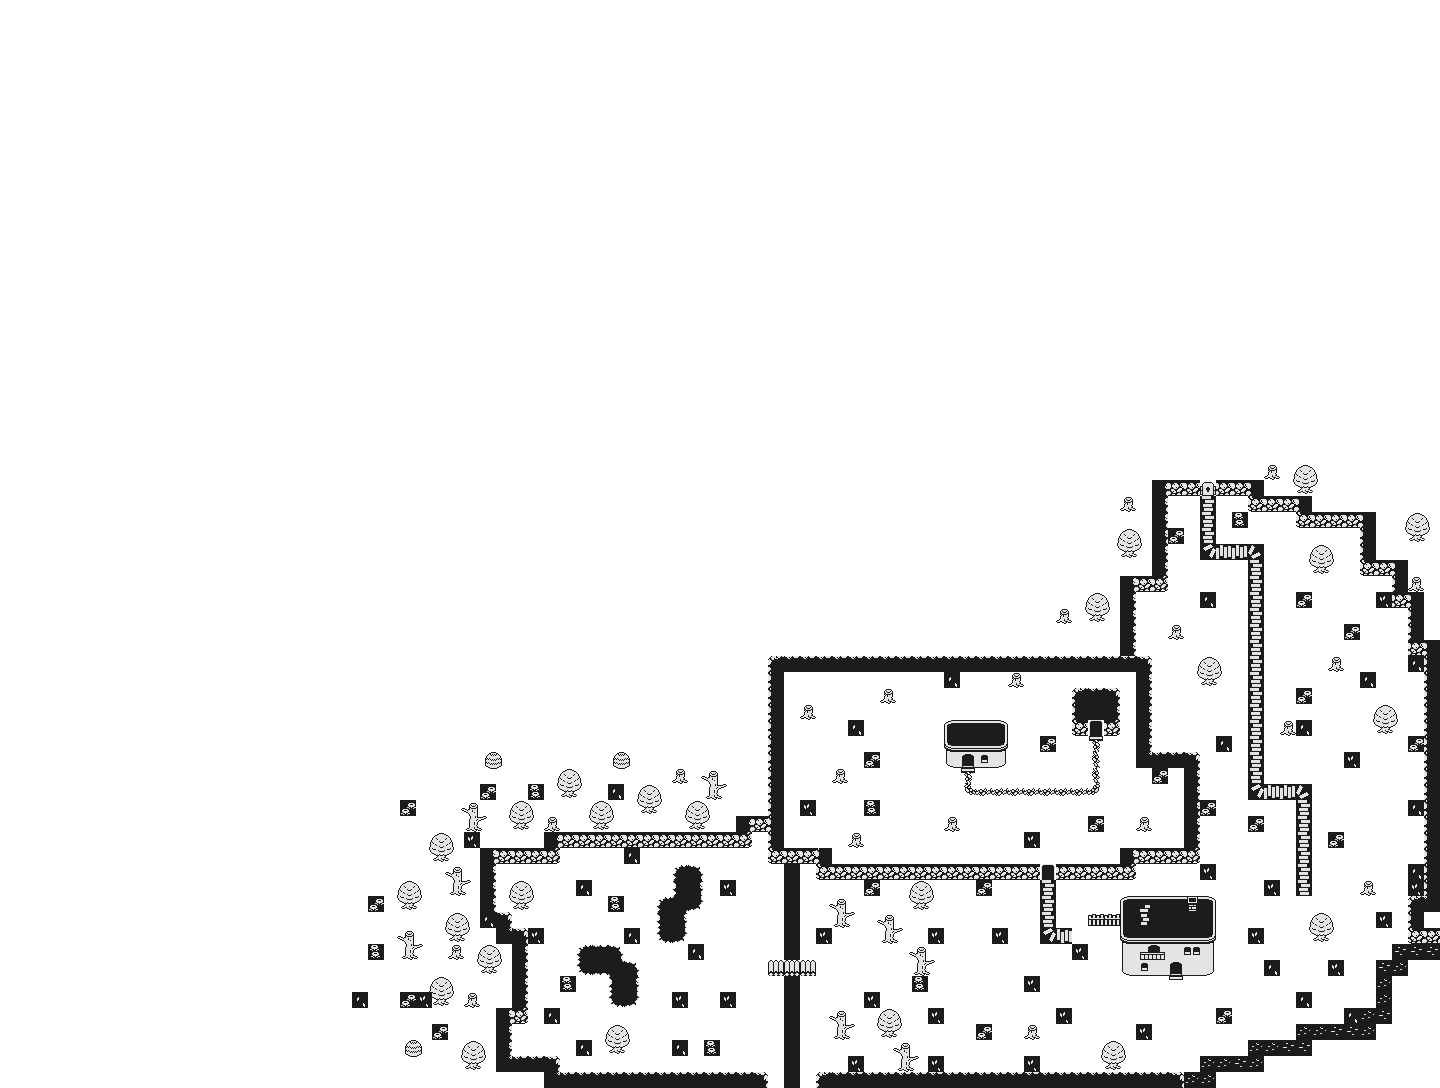
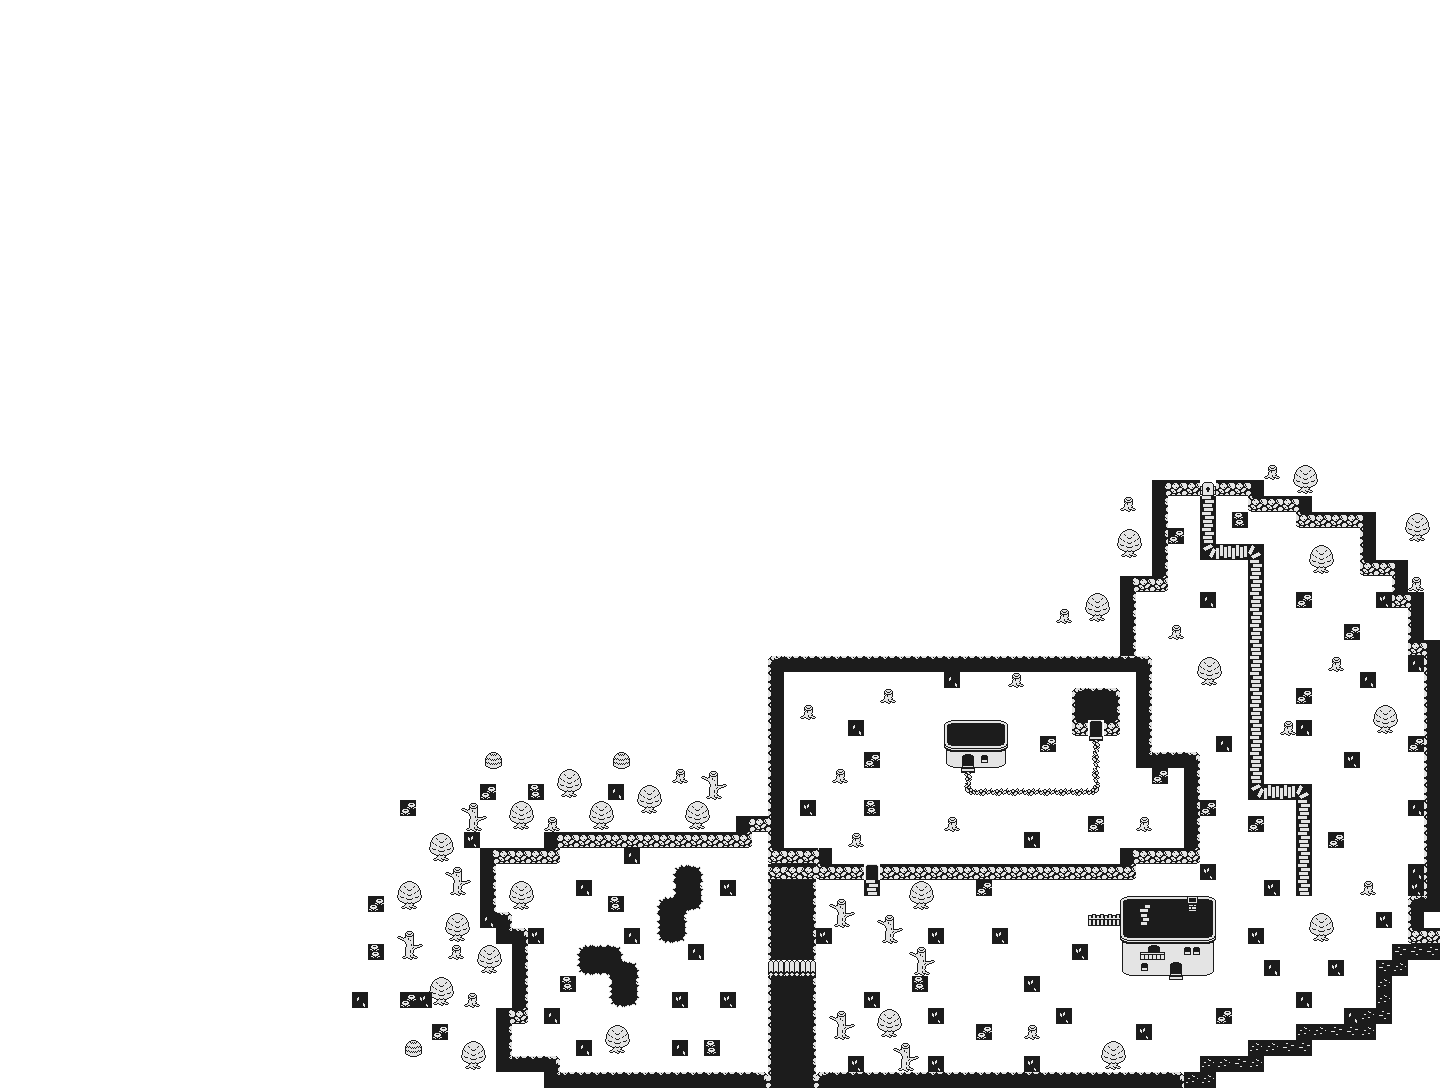
ADD: new environment

Changed region(s): [[0.5312, 0.7812, 0.5938, 1.0], [0.7188, 0.7812, 0.75, 0.875], [0.5938, 0.7812, 0.625, 0.8125]]

diff --git a/include/region.h b/include/region.h
@@ -40,6 +40,7 @@
         "data/regions/start_house_interior.region",
         "data/regions/mine_interior_top.region",
         "data/regions/mine_interior_bottom.region",
+        "data/regions/mine_interior_left.region",
         "data/regions/slime.region",
         "data/regions/path_to_boss.region",
     };
@@ -50,6 +51,7 @@
         START_HOUSE_INTERIOR,
         MINE_INTERIOR_TOP,
         MINE_INTERIOR_BOTTOM,
+        MINE_INTERIOR_LEFT,
         SLIME_REGION,
         PATH_TO_BOSS_REGION,
         REGION_NB
@@ -61,6 +63,7 @@
         START_HOUSE_MAP,
         MINE_INTERIOR_MAP,
         MINE_INTERIOR_MAP,
+        MINE_INTERIOR_MAP,
         BASE_MAP,
         BASE_MAP,
     };
@@ -69,8 +72,9 @@
         {MINE_REGION, -1, SLIME_REGION, -1},
         {PATH_TO_BOSS_REGION, START_REGION, -1, -1},
         {-1, -1, -1, -1},
-        {-1, MINE_INTERIOR_BOTTOM, -1, -1},
-        {MINE_INTERIOR_TOP, -1, -1, -1}, //Mine interrior bottom
+        {-1, -1, MINE_INTERIOR_LEFT, -1},
+        {MINE_INTERIOR_LEFT, -1, -1, -1}, //Mine interrior bottom
+        {-1, MINE_INTERIOR_BOTTOM, -1, MINE_INTERIOR_TOP},
         {-1, -1, -1, START_REGION},
         {-1, MINE_REGION, -1, -1}, //path to boss region
     }; //0 : Up, 1 : Down, 2 : Left, 3 : Right
